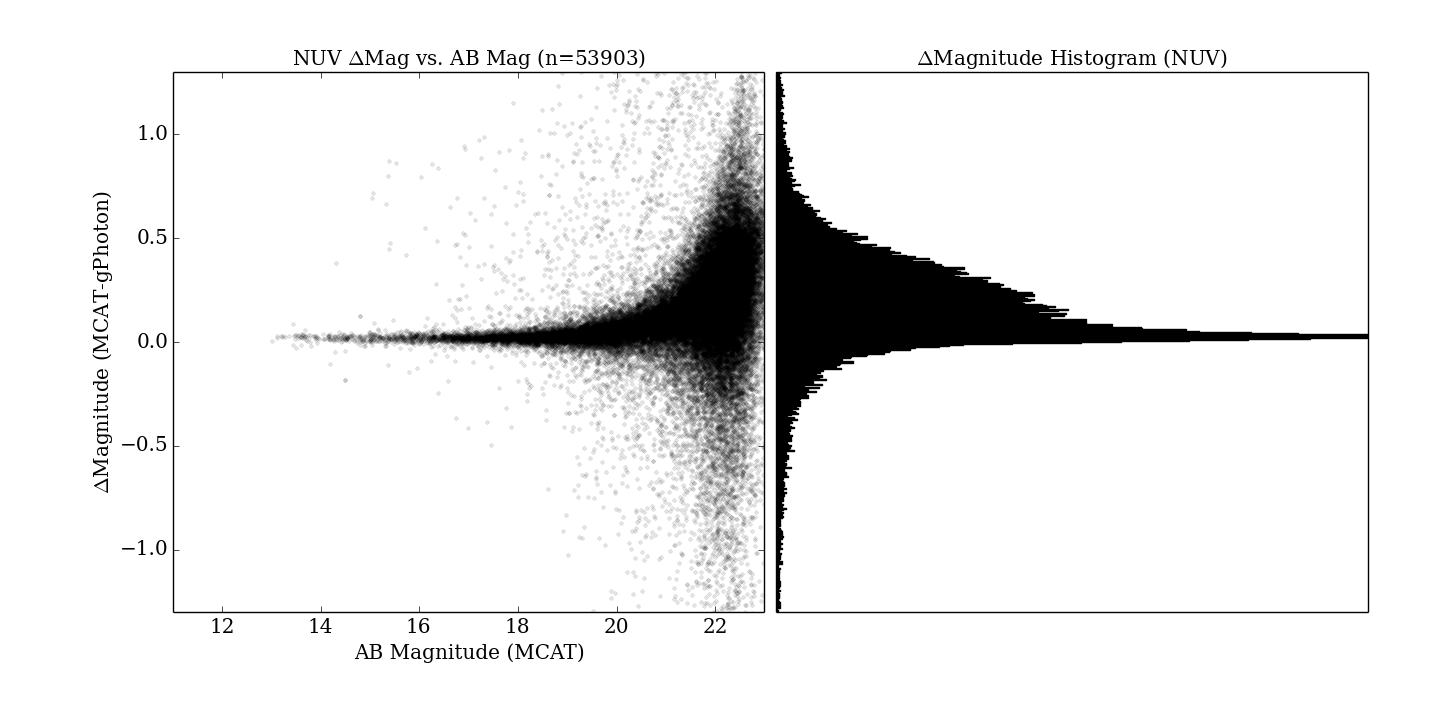
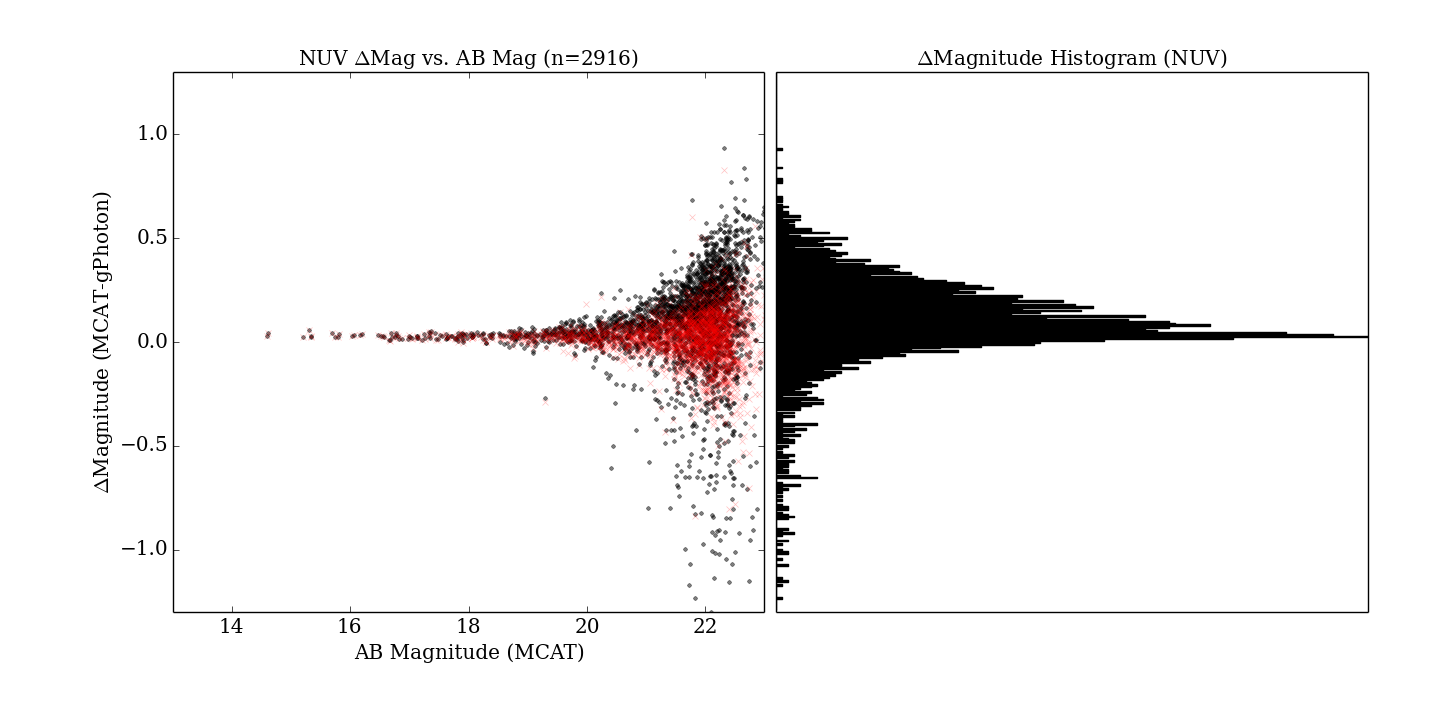
still testing / refining photometry

diff --git a/calpaper/src/script.py b/calpaper/src/script.py
@@ -1,5 +1,6 @@
 %pylab
-from testutils import *
+
+from regtestutils import *
 import galextools as gt
 import MCUtils as mc
 import pandas as pd
@@ -31,7 +32,7 @@ for skypos in zip(coaddlist['avaspra'],coaddlist['avaspdec']):
     expt = gFind.gFind(skypos=skypos,band='FUV',quiet=True)['expt'][0]
     if (expt<=5000.) and (expt>0):
         print skypos, expt, True
-        datamaker('FUV',skypos,'calrun_FUV.csv')
+        datamaker('FUV',skypos,'calrun_FUV.csv',maglimit=24)
     else:
         print skypos, expt, False
 
@@ -40,7 +41,7 @@ for skypos in zip(coaddlist['avaspra'],coaddlist['avaspdec']):
     expt = gFind.gFind(skypos=skypos,band='NUV',quiet=True)['expt'][0]
     if (expt<=5000.) and (expt>0):
         print skypos, expt, True
-        datamaker('NUV',skypos,'calrun_NUV.csv')
+        datamaker('NUV',skypos,'calrun_NUV.csv',maglimit=24)
     else:
         print skypos, expt, False
 
@@ -55,29 +56,46 @@ base = 'calrun_'
 data = {}
 for band in bands:
     data[band] = pd.read_csv('{base}{band}.csv'.format(base=base,band=band))
+    print '{band} sources: {cnt}'.format(
+                                band=band,cnt=data[band]['objid'].shape[0])
 
 """dMag vs. Mag"""
 for band in bands:
     fig = plt.figure(figsize=(8*scl,4*scl))
-    fig.subplots_adjust(left=0.12,right=0.95,wspace=0.02,bottom=0.15,top=0.9)
+    fig.subplots_adjust(left=0.12,right=0.95,wspace=0.02,
+                                                        bottom=0.15,top=0.9)
     # Make a cut on crazy outliers in the MCAT. Also on det radius and expt.
-    ix = np.where((data[band]['aper4']>0) & (data[band]['aper4']<30) &
-                  (data[band]['distance']<300) & (data[band]['t_eff']<300))
+    ix = ((data[band]['aper4']>0) & (data[band]['aper4']<30) &
+              (data[band]['distance']<300) & (data[band]['t_eff']<300) &
+              (data[band]['bg_cheese']>0))
     plt.subplot(1,2,1)
-    plt.title('{band} {d}Mag vs. AB Mag (n={n})'.format(d=r'$\Delta$',
-                                            band=band,n=ix[0].shape[0]))
+    plt.title('{band} {d}Mag vs. AB Mag (n={n})'.format(
+                    d=r'$\Delta$',band=band,n=ix.shape[0]))
     plt.xlabel('AB Magnitude (MCAT)')
     plt.ylabel(r'{d}Magnitude (MCAT-gPhoton)'.format(d=r'$\Delta$'))
     dmag = data[band]['aper4']-data[band]['mag_bgsub_cheese']
-    plt.axis([11,23,-1.3,1.3])
-    plt.plot(data[band]['aper4'].ix[ix],dmag.ix[ix],'.',
-                                            alpha=0.1,color='k',markersize=5)
+    plt.axis([13,23,-1.3,1.3])
+    plt.plot(data[band]['aper4'][ix],dmag[ix],'.',
+                                            alpha=0.5,color='k',markersize=5)
+    mcat_skybg = data[band]['skybg']*3600**2*mc.area(gt.aper2deg(4))
+    dmag_skybg = data[band]['aper4']-gt.counts2mag(
+                    gt.mag2counts(data[band]['mag'],band)-mcat_skybg,band)
+    # Overplot the "best case" background using MCAT skybg
+    plt.plot(data[band]['aper4'][ix],dmag_skybg[ix],'x',
+                                        alpha=0.25,color='r',markersize=5)
     plt.subplot(1,2,2,xticks=[],yticks=[],ylim=[-1.3,1.3])
     plt.title('{d}Magnitude Histogram ({band})'.format(
                                                     d=r'$\Delta$',band=band))
-    plt.hist(dmag.ix[ix],bins=500,range=[-1.3,1.3],
+    plt.hist(dmag[ix],bins=np.floor(ix.shape[0]/10.),range=[-1.3,1.3],
                                             orientation='horizontal',color='k')
-    fig.savefig('../calpaper/src/dMag_v_Mag({band}).png'.format(band=band))
+    fig.savefig(
+            '../calpaper/src/dMag_v_Mag({band}).png'.format(band=band))
+
+"""Density Plot"""
+#cmap = plt.cm.cool
+#cmap.set_bad('w', 1.)
+#N, xedges, yedges = np.histogram2d(dmag,data['NUV']['aper4'],bins=[150,300],range=[[-1.3,1.3],[11,23]])
+#plt.imshow(N,origin='lower',extent=[11,23,-1.3,1.3],interpolation='bilinear',aspect=12/2.6,cmap=cmap)
 
 """Background Plots
 The gPhoton background is scaled to counts in the aperture and the
@@ -88,35 +106,85 @@ fig = plt.figure(figsize=(8*scl,4*scl))
 fig.subplots_adjust(left=0.12,right=0.95,wspace=0.02,bottom=0.15,top=0.9)
 for i,band in enumerate(bands):
     gphot_bg = gt.counts2mag(data[band]['bg_cheese']/data[band]['t_eff'],band)
-    mcat_bg = gt.counts2mag(data[band]['skybg']*3600**2*mc.area(gt.aper2deg(4)),band)
+    mcat_bg = gt.counts2mag(
+                    data[band]['skybg']*3600**2*mc.area(gt.aper2deg(4)),band)
     delta = mcat_bg - gphot_bg
-    ix = np.where(np.isfinite(delta))
+    ix = (np.isfinite(delta))
     plt.subplot(1,2,i+1,yticks=[],xlim=[-3,3])
     plt.title('{band} Background {d}Magnitude (MCAT-gPhoton)'.format(band=band,d=r'$\Delta$'))
-    plt.hist(delta.ix[ix],bins=500,range=[-3,3],color='k')
+    plt.hist(delta[ix],bins=500,range=[-3,3],color='k')
 fig.savefig('../calpaper/src/dMag_bg.png')
 
 """Astrometry"""
+a = 3600
 for i,band in enumerate(bands):
     fig = plt.figure(figsize=(8*scl,8*scl))
-    fig.subplots_adjust(left=0.12,right=0.95,hspace=0.02,wspace=0.02,bottom=0.15,top=0.9)
+    fig.subplots_adjust(left=0.12,right=0.95,hspace=0.02,wspace=0.02,
+                                                        bottom=0.15,top=0.9)
     dRA = data[band]['ra']-data[band]['racent']
     dDec = data[band]['dec']-data[band]['deccent']
     # dRA v. dDec
     plt.subplot(2,2,1,xticks=[])
-    plt.ylabel('{d}RA'.format(d=r'$\Delta$'))
-    plt.title('{band} {d}Centroid (MCAT-gPhoton)'.format(band=band,d=r'$\Delta$'))
-    plt.axis([-0.004,0.004,-0.0015,0.0015])
-    plt.plot(dRA,dDec,'.',alpha=0.1,color='k',markersize=5)
+    plt.ylabel('{d}RA (arcsec)'.format(d=r'$\Delta$'))
+    plt.title('{band} {d}Centroid (MCAT-gPhoton)'.format(
+                                                     band=band,d=r'$\Delta$'))
+    plt.axis([-0.004*a,0.004*a,-0.004*a,0.004*a])
+    plt.plot(dRA*np.cos(data[band]['dec'])*a,dDec*a,'.',alpha=0.1,color='k',
+                                                                 markersize=5)
     # dRA
-    plt.subplot(2,2,2,yticks=[],xticks=[],ylim=[-0.0015,0.0015])
-    plt.hist(dRA,bins=500,orientation='horizontal',color='k')
+    plt.subplot(2,2,2,yticks=[],xticks=[],ylim=[-0.004*a,0.004*a])
+    plt.hist(dRA*np.cos(data[band]['ra'])*a,bins=500,orientation='horizontal',
+                                                                    color='k')
     # dDec
-    plt.subplot(2,2,3,yticks=[],xlim=[-0.004,0.004])
-    plt.xlabel('{d}Dec'.format(d=r'$\Delta$'))
+    plt.subplot(2,2,3,yticks=[],xlim=[-0.004*a,0.004*a])
+    plt.xlabel('{d}Dec (arcsec)'.format(d=r'$\Delta$'))
     plt.gca().invert_yaxis()
-    plt.hist(dDec,bins=500,color='k')
-    fig.savefig('../calpaper/src/dRA_v_dDec({band}).png'.format(band=band))
+    plt.hist(dDec*a,bins=500,color='k')
+    fig.savefig('../calpaper/src/dRA_v_dDec({band})'.format(band=band))
+
+fig = plt.figure(figsize=(8*scl,4*scl))
+fig.subplots_adjust(left=0.12,right=0.95,wspace=0.02,bottom=0.15,top=0.9)
+for i,band in enumerate(bands):
+    delta = mc.angularSeparation(data[band]['ra'],data[band]['dec'],
+                                 data[band]['racent'],data[band]['deccent'])
+    plt.subplot(1,2,i+1,yticks=[],xlim=[0.*a,0.002*a])
+    plt.title('{band} Angular Separation (arcsec)'.format(
+                                                    band=band,d=r'$\Delta$'))
+    plt.hist(delta*a,bins=500,range=[0.*a,0.002*a],color='k')
+    fig.savefig('../calpaper/src/angSep({band}).png'.format(band=band))
+
+
+###############################################################################
+"""What happens if we use the MCAT skybg?
+dMag vs. Mag
+"""
+for band in bands:
+    fig = plt.figure(figsize=(8*scl,4*scl))
+    fig.subplots_adjust(left=0.12,right=0.95,wspace=0.02,bottom=0.15,top=0.9)
+    # Make a cut on crazy outliers in the MCAT. Also on det radius and expt.
+    ix = ((data[band]['aper4']>0) & (data[band]['aper4']<30) &
+          (data[band]['distance']<300) & (data[band]['t_eff']<300) &
+          (data[band]['bg_cheese']>0))
+    plt.subplot(1,2,1)
+    plt.title('{band} {d}Mag vs. AB Mag (w/ MCAT skybg, n={n})'.format(
+                                    d=r'$\Delta$',band=band,n=ix.shape[0]))
+    plt.xlabel('AB Magnitude (MCAT)')
+    plt.ylabel(r'{d}Magnitude (MCAT-gPhoton)'.format(d=r'$\Delta$'))
+    # skybg in the aperture in cps
+    mcat_skybg = data[band]['skybg']*3600**2*mc.area(gt.aper2deg(4))
+    dmag = data[band]['aper4']-gt.counts2mag(
+                        gt.mag2counts(data[band]['mag'],band)-mcat_skybg,band)
+    plt.axis([11,23,-1.3,1.3])
+    plt.plot(data[band]['aper4'][ix],dmag[ix],'x',
+                                            alpha=1,color='r',markersize=5)
+    plt.subplot(1,2,2,xticks=[],yticks=[],ylim=[-1.3,1.3])
+    plt.title('{d}Magnitude Histogram ({band})'.format(
+                                                    d=r'$\Delta$',band=band))
+    plt.hist(dmag[ix],bins=500,range=[-1.3,1.3],
+                                            orientation='horizontal',color='k')
+    fig.savefig('../calpaper/src/dMag_v_Mag({band})_skybg.png'.format(
+                                                                band=band))
+
 
 ###############################################################################
 """Deadtime Sanity Checks
